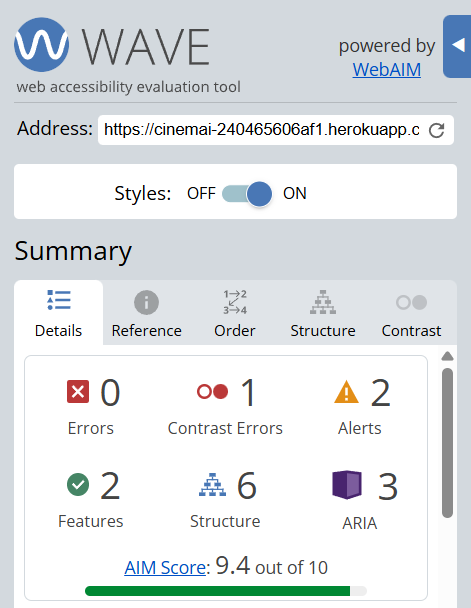
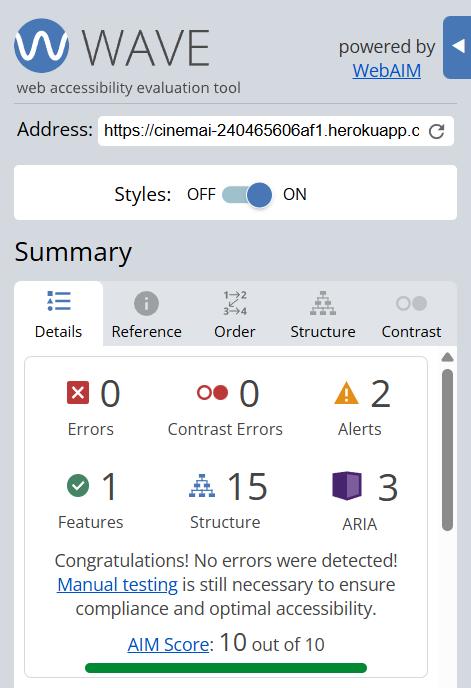
Reduced spacing on home.html, change liner-gradient for lighter top hero image

Changed region(s): [[0.0297, 0.0312, 1.0, 1.0], [0.9214, 0.75, 0.9809, 0.8438]]

diff --git a/cinemai/templates/cinemai/home.html b/cinemai/templates/cinemai/home.html
@@ -16,9 +16,8 @@
                     </h1>
                     <p class="hero-subtitle">The days of endless scrolling are over, welcome to the new age of film discovery</p>
                     <a href="{% url 'signup' %}" class="btn btn-primary btn-hero">
-                        Get Started Free <i class="bi bi-arrow-right ms-2"></i>
-                    </a>
-                    <p class="hero-note mt-3">No credit card required</p>
+                    Get Started</a>
+                    <p class="hero-note mt-2">No credit card required</p>
                 </div>
             </div>
         </div>
@@ -26,9 +25,9 @@
 </div>
 
 <!-- Features Section -->
-<section class="features-section py-5">
+<section class="features-section py-4">
     <div class="container">
-        <h2 class="text-center mb-5">Why CinemAI?</h2>
+        <h2 class="text-center mb-4">Why CinemAI?</h2>
         <div class="row g-4">
             <div class="col-md-4">
                 <div class="feature-card">
@@ -62,9 +61,9 @@
 </section>
 
 <!-- Pricing Section -->
-<section class="pricing-section py-5">
+<section class="pricing-section py-4">
     <div class="container">
-        <h2 class="text-center mb-5">Choose Your Plan</h2>
+        <h2 class="text-center mb-4">Choose Your Plan</h2>
         <div class="row justify-content-center g-4">
             <!-- Free Plan -->
             <div class="col-md-5 col-lg-4">
@@ -115,9 +114,9 @@
 </section>
 
 <!-- CTA Section -->
-<section class="cta-section-final py-5">
+<section class="cta-section-final py-4">
     <div class="container text-center">
-        <h2 class="mb-4">Ready to discover your next favorite movie?</h2>
+        <h2 class="mb-3">Ready to discover your next favorite movie?</h2>
         <a href="{% url 'signup' %}" class="btn btn-primary btn-lg px-5">
             Create Free Account
         </a>

diff --git a/cinemai/static/css/style.css b/cinemai/static/css/style.css
@@ -278,7 +278,7 @@ h1, h2, h3, h4, h5, h6 {
 .hero-overlay {
     position: absolute;
     inset: 0;
-    background: linear-gradient(to bottom, rgba(18, 20, 23, 0.6) 0%, rgba(18, 20, 23, 0.9) 50%, rgba(18, 20, 23, 1.0) 100%);
+    background: linear-gradient(to bottom, rgba(18, 20, 23, 0.2) 0%, rgba(18, 20, 23, 0.9) 50%, rgba(18, 20, 23, 1) 100%);
     z-index: 1;
 }
 
